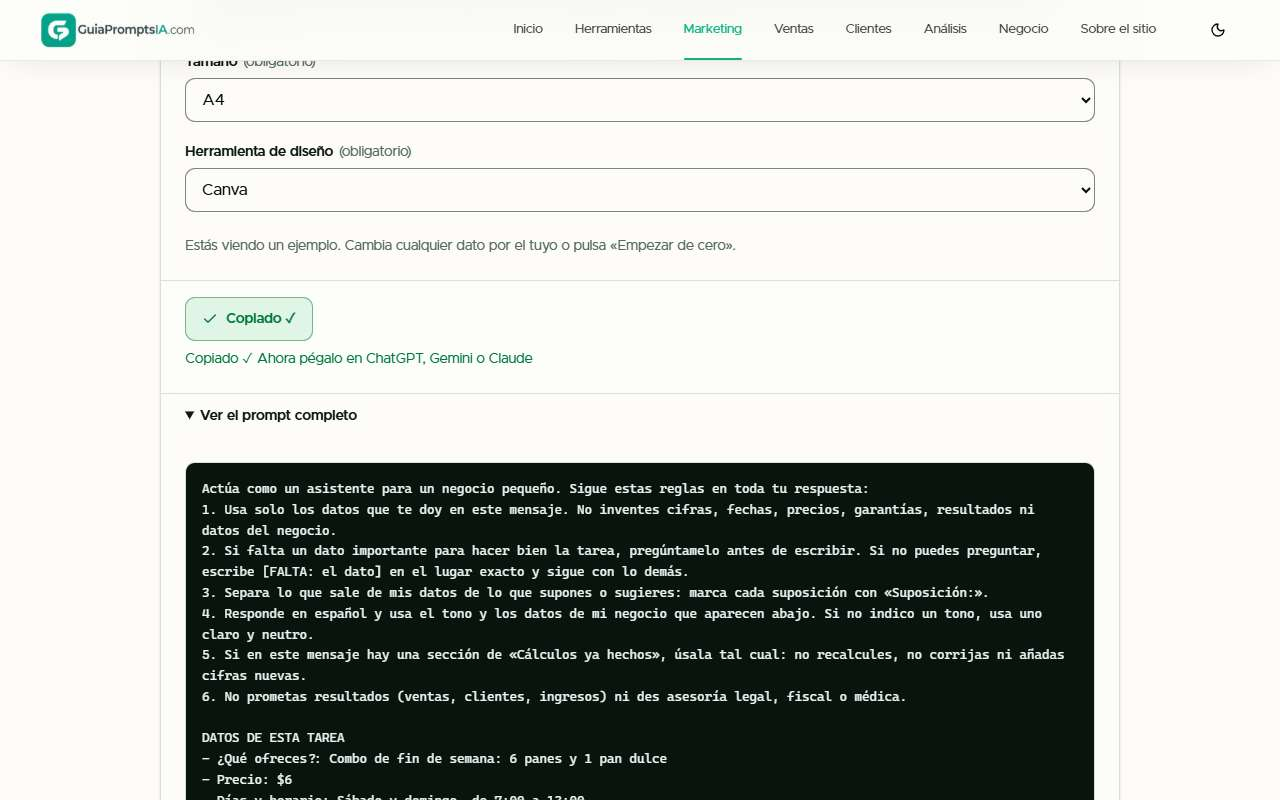
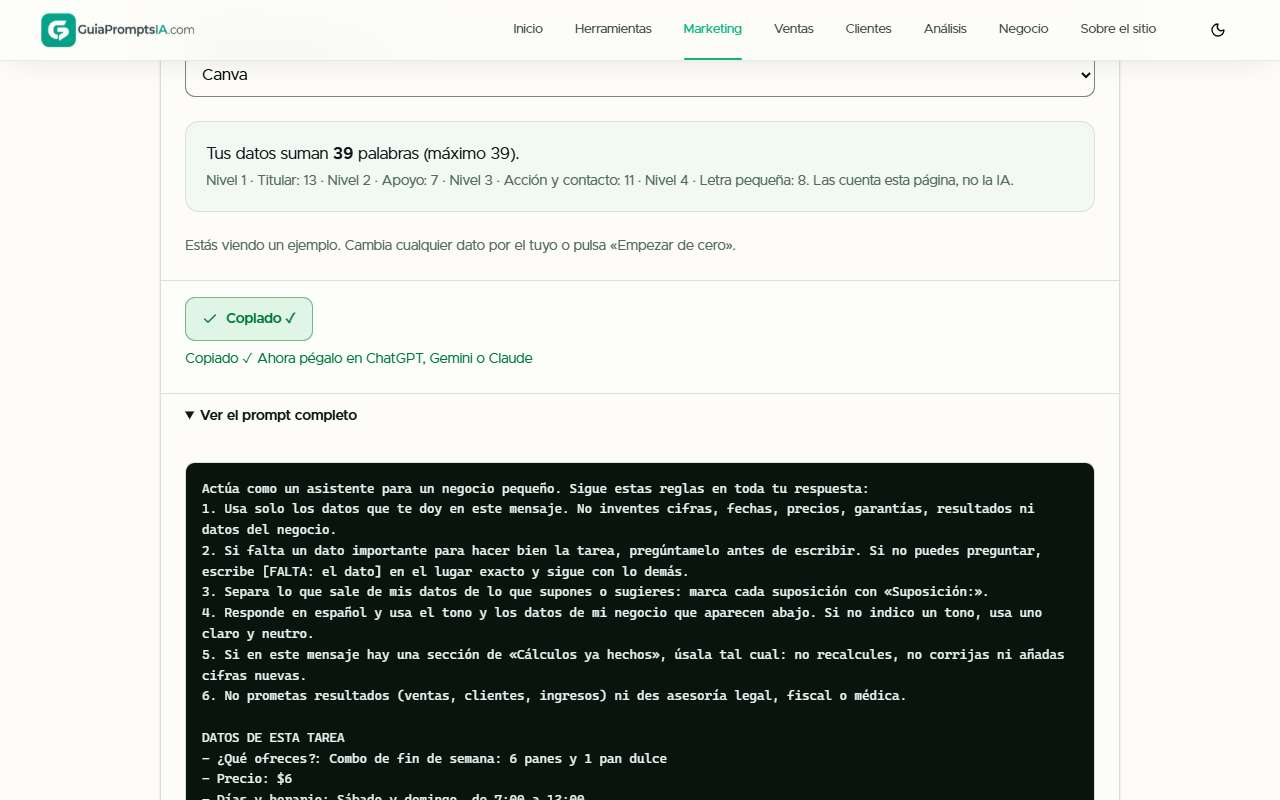
docs/qa: resultados y capturas del QA completo (604 pruebas, 604 OK) con el conteo de palabras de los afiches

diff --git a/docs/qa/resultados.md b/docs/qa/resultados.md
@@ -1,6 +1,6 @@
 # Recorrido interactivo (Playwright, build de producción)
 
-Generado con `npm run qa` contra http://localhost:3100 (Chrome del sistema, 375 px y 1280 px). 596 pruebas: 596 OK, 0 FALLA.
+Generado con `npm run qa` contra http://localhost:3100 (Chrome del sistema, 375 px y 1280 px). 604 pruebas: 604 OK, 0 FALLA.
 
 | Página | Vista (px) | Prueba | Resultado | Detalle |
 |---|---|---|---|---|
@@ -148,12 +148,16 @@ Generado con `npm run qa` contra http://localhost:3100 (Chrome del sistema, 375 
 | /marketing/crear-afiches-con-ia | 375 | prompt del ejemplo sin {{ }}, undefined, null ni NaN | OK |  |
 | /marketing/crear-afiches-con-ia | 375 | prompt del ejemplo sin [FALTA] en los datos | OK | 0 [FALTA] |
 | /marketing/crear-afiches-con-ia | 375 | «Ver el prompt completo» muestra el prompt | OK |  |
-| /marketing/crear-afiches-con-ia | 375 | «Copiar prompt» (portapapeles permitido): «Copiado ✓» y el portapapeles = el prompt | OK | 3829 caracteres copiados |
+| /marketing/crear-afiches-con-ia | 375 | «Copiar prompt» (portapapeles permitido): «Copiado ✓» y el portapapeles = el prompt | OK | 3972 caracteres copiados |
 | /marketing/crear-afiches-con-ia | 375 | el prompt copiado sin {{ }}, undefined, null ni NaN | OK |  |
+| /marketing/crear-afiches-con-ia | 375 | conteo de palabras · El caso de La Espiga (los datos de «Probar con un ejemplo») | OK | «Tus datos suman 39 palabras (máximo 39).»; el prompt trae el total |
+| /marketing/crear-afiches-con-ia | 375 | conteo de palabras · Sin datos: cero palabras | OK | «Tus datos suman 0 palabras (máximo 39).»; el prompt trae el total |
+| /marketing/crear-afiches-con-ia | 375 | conteo de palabras · Sin precio no se cuenta el «por» del titular | OK | «Tus datos suman 11 palabras (máximo 39).»; el prompt trae el total |
+| /marketing/crear-afiches-con-ia | 375 | conteo de palabras · Se pasa del máximo: el aviso dice cuántas de más | OK | «Tus datos suman 49 palabras (máximo 39).» + aviso (no bloquea); el prompt trae el total |
 | /marketing/crear-afiches-con-ia | 375 | 0 errores en consola | OK |  |
 | /marketing/crear-afiches-con-ia | 375 | portapapeles API bloqueado: alternativa (execCommand) o texto a mano | OK | copiado con execCommand |
 | /marketing/crear-afiches-con-ia | 375 | 0 errores de consola con el portapapeles sin API | OK |  |
-| /marketing/crear-afiches-con-ia | 375 | portapapeles totalmente bloqueado: aparece el texto para copiar a mano con el prompt completo | OK | 3790 caracteres |
+| /marketing/crear-afiches-con-ia | 375 | portapapeles totalmente bloqueado: aparece el texto para copiar a mano con el prompt completo | OK | 3933 caracteres |
 | /marketing/crear-afiches-con-ia | 375 | 0 errores de consola con el portapapeles bloqueado | OK |  |
 | /marketing/crear-anuncios-con-ia | 375 | sin scroll horizontal | OK | ancho de contenido 375 · ventana 375 |
 | /marketing/crear-anuncios-con-ia | 375 | botones y controles ≥ 44 px | OK |  |
@@ -446,12 +450,16 @@ Generado con `npm run qa` contra http://localhost:3100 (Chrome del sistema, 375 
 | /marketing/crear-afiches-con-ia | 1280 | prompt del ejemplo sin {{ }}, undefined, null ni NaN | OK |  |
 | /marketing/crear-afiches-con-ia | 1280 | prompt del ejemplo sin [FALTA] en los datos | OK | 0 [FALTA] |
 | /marketing/crear-afiches-con-ia | 1280 | «Ver el prompt completo» muestra el prompt | OK |  |
-| /marketing/crear-afiches-con-ia | 1280 | «Copiar prompt» (portapapeles permitido): «Copiado ✓» y el portapapeles = el prompt | OK | 3829 caracteres copiados |
+| /marketing/crear-afiches-con-ia | 1280 | «Copiar prompt» (portapapeles permitido): «Copiado ✓» y el portapapeles = el prompt | OK | 3972 caracteres copiados |
 | /marketing/crear-afiches-con-ia | 1280 | el prompt copiado sin {{ }}, undefined, null ni NaN | OK |  |
+| /marketing/crear-afiches-con-ia | 1280 | conteo de palabras · El caso de La Espiga (los datos de «Probar con un ejemplo») | OK | «Tus datos suman 39 palabras (máximo 39).»; el prompt trae el total |
+| /marketing/crear-afiches-con-ia | 1280 | conteo de palabras · Sin datos: cero palabras | OK | «Tus datos suman 0 palabras (máximo 39).»; el prompt trae el total |
+| /marketing/crear-afiches-con-ia | 1280 | conteo de palabras · Sin precio no se cuenta el «por» del titular | OK | «Tus datos suman 11 palabras (máximo 39).»; el prompt trae el total |
+| /marketing/crear-afiches-con-ia | 1280 | conteo de palabras · Se pasa del máximo: el aviso dice cuántas de más | OK | «Tus datos suman 49 palabras (máximo 39).» + aviso (no bloquea); el prompt trae el total |
 | /marketing/crear-afiches-con-ia | 1280 | 0 errores en consola | OK |  |
 | /marketing/crear-afiches-con-ia | 1280 | portapapeles API bloqueado: alternativa (execCommand) o texto a mano | OK | copiado con execCommand |
 | /marketing/crear-afiches-con-ia | 1280 | 0 errores de consola con el portapapeles sin API | OK |  |
-| /marketing/crear-afiches-con-ia | 1280 | portapapeles totalmente bloqueado: aparece el texto para copiar a mano con el prompt completo | OK | 3790 caracteres |
+| /marketing/crear-afiches-con-ia | 1280 | portapapeles totalmente bloqueado: aparece el texto para copiar a mano con el prompt completo | OK | 3933 caracteres |
 | /marketing/crear-afiches-con-ia | 1280 | 0 errores de consola con el portapapeles bloqueado | OK |  |
 | /marketing/crear-anuncios-con-ia | 1280 | sin scroll horizontal | OK | ancho de contenido 1280 · ventana 1280 |
 | /marketing/crear-anuncios-con-ia | 1280 | botones y controles ≥ 44 px | OK |  |
